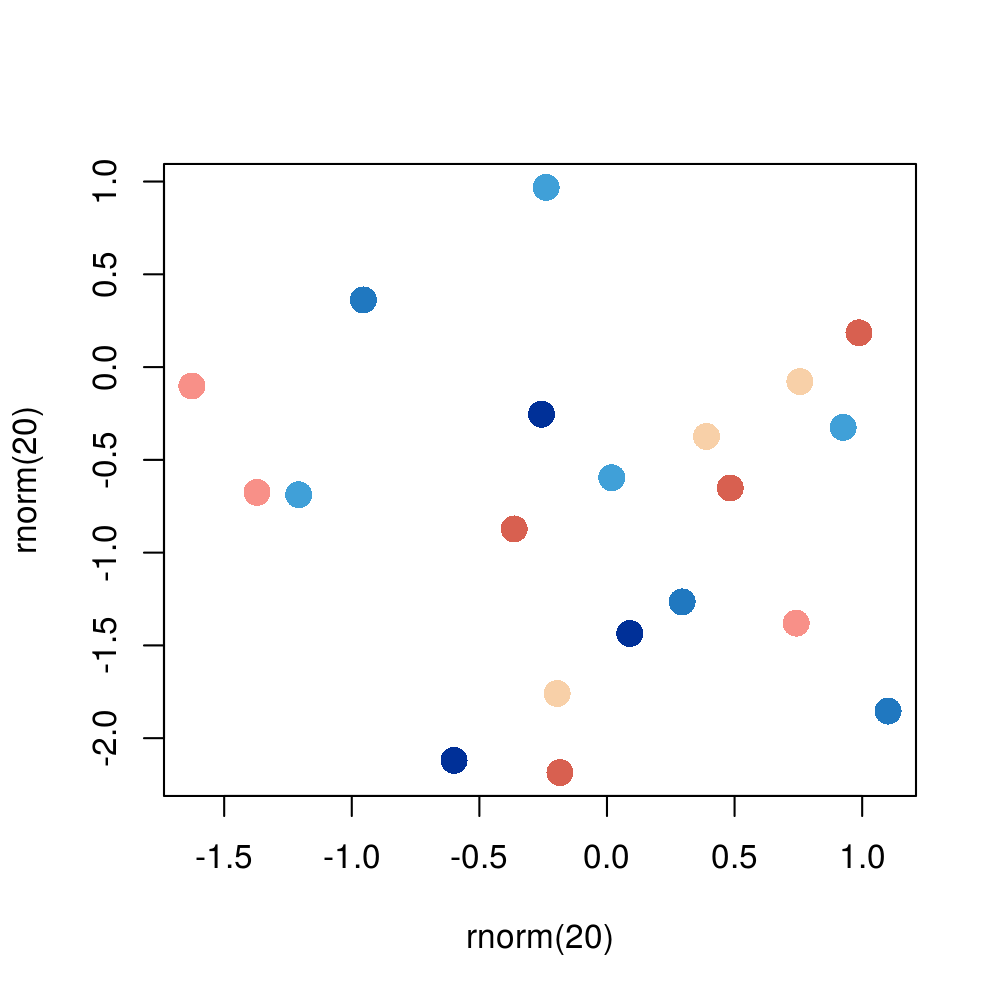
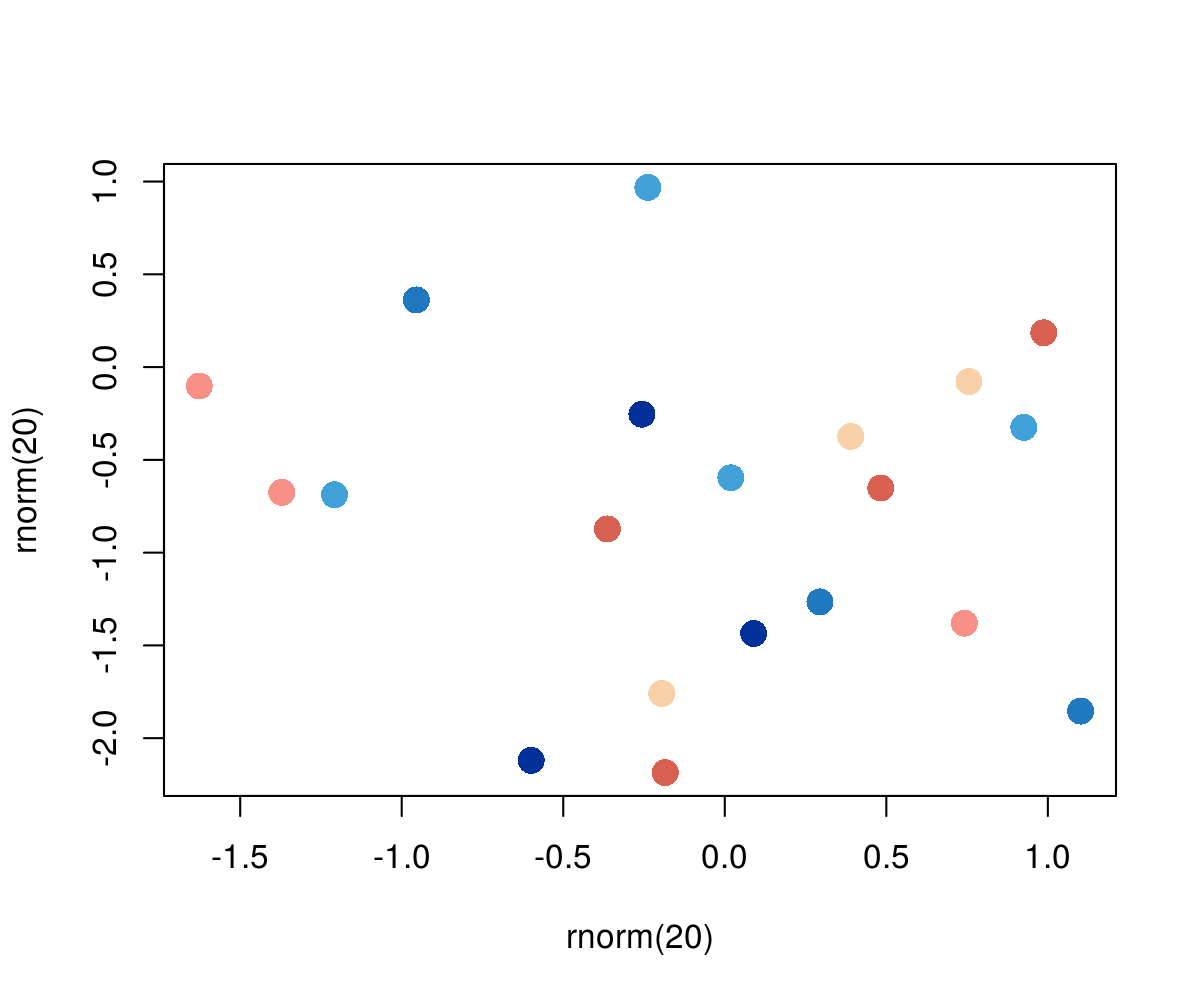
Final messing with images.

diff --git a/README.md b/README.md
@@ -88,7 +88,7 @@ library(ggplot2)
 
 
 qplot(Sepal.Length, Sepal.Width, colour = Species, data=iris, size = 2) +
-  scale_colour_poke(pokemon = 156, spread = 3)
+  scale_colour_poke(pokemon = 'Tangela', spread = 3)
 ```
 
 ![plot of chunk ggplot2](figure/ggplot2-1.png) 
